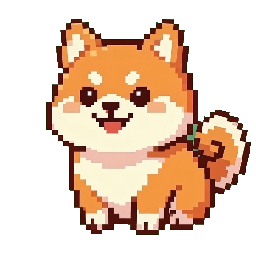
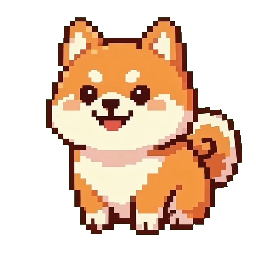
删除了序列帧的第一帧，修改了后续帧的名称

diff --git a/index2.html b/index2.html
@@ -1169,8 +1169,8 @@
             return arr[Math.floor(Math.random() * arr.length)];
         }
 
-        // 小H待机序列帧（assets/待机/001.png … 023.png）
-        const XIAOH_IDLE_FRAMES = 23;
+        // 小H待机序列帧（assets/待机/001.png … 022.png）
+        const XIAOH_IDLE_FRAMES = 22;
         const XIAOH_IDLE_MS = 200;
         let xiaohIdleTimer = null;
         let xiaohIdleFrame = 0;
